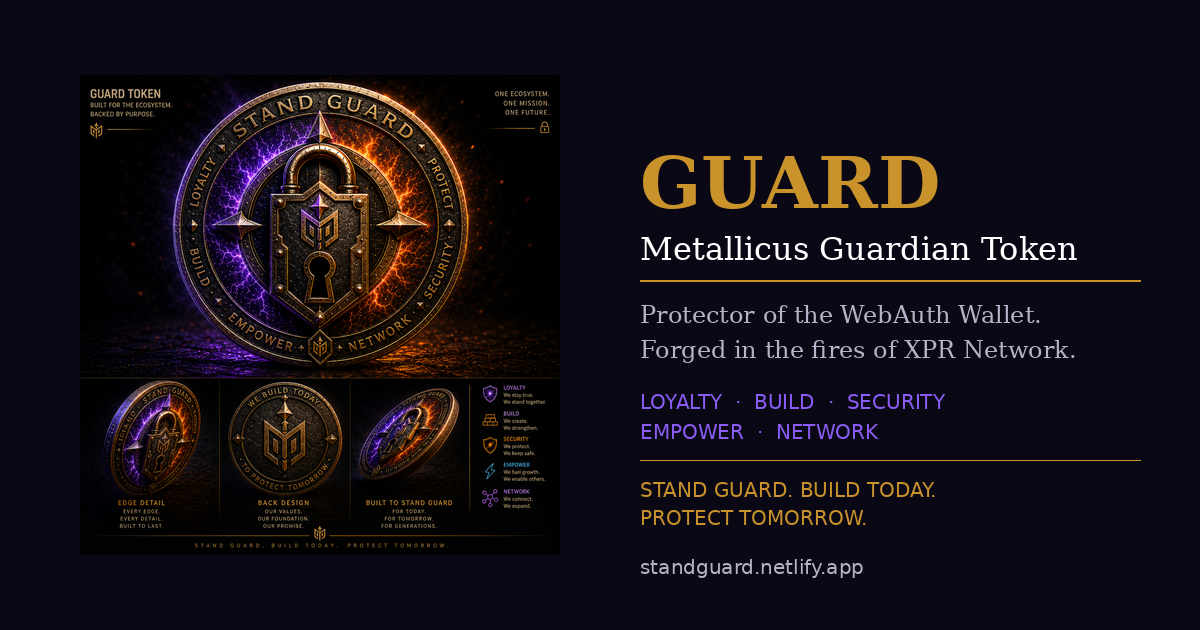
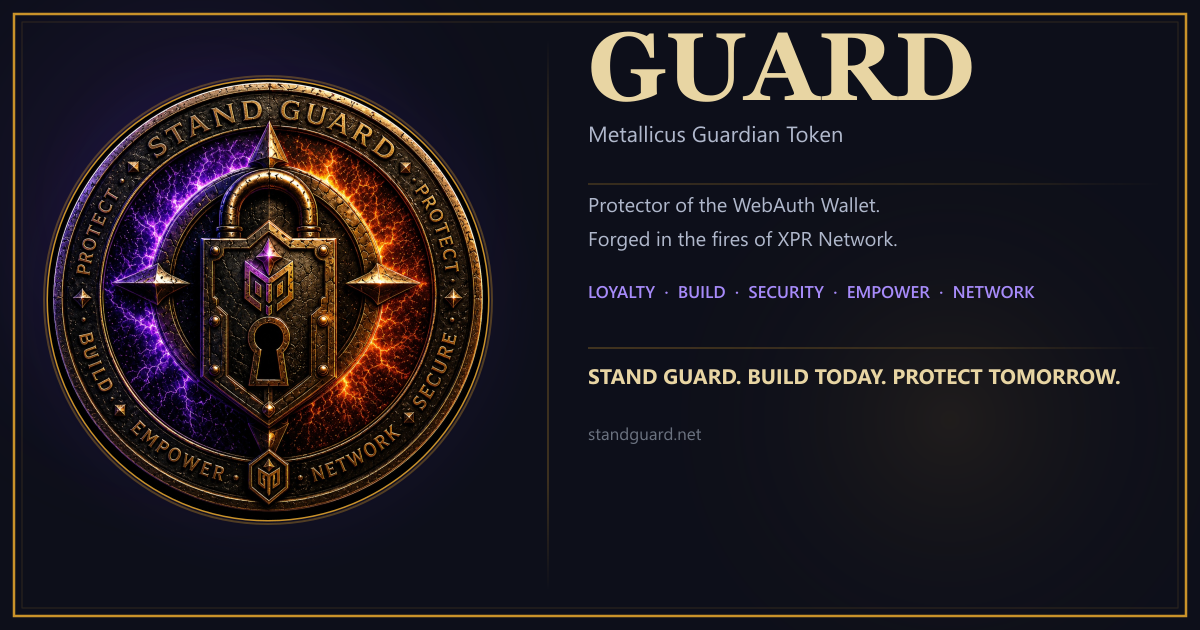
feat: rebuild guard-card-v6.png social share card for standguard.net
1200x630 OG image — dark bg, coin image left with purple glow ring,
GUARD title + taglines + value pillars + CTA + standguard.net right panel.
Includes make-card.js (node-canvas build script) for future edits.

diff --git a/make-card.js b/make-card.js
@@ -1,0 +1,177 @@
+const { createCanvas, loadImage } = require('canvas');
+const fs = require('fs');
+const path = require('path');
+
+const W = 1200, H = 630;
+const canvas = createCanvas(W, H);
+const ctx = canvas.getContext('2d');
+
+// ── Colors (matching site theme) ──
+const BG      = '#0d0f1a';
+const BG2     = '#161828';
+const GOLD    = '#c9922a';
+const GOLD_L  = '#e8d5a3';
+const PURPLE  = '#7c3aed';
+const TEXT2   = '#b0b8cc';
+const TEXT3   = '#6b7280';
+const BORDER  = 'rgba(201,146,42,0.3)';
+
+// ── Background ──
+ctx.fillStyle = BG;
+ctx.fillRect(0, 0, W, H);
+
+// Subtle radial glow top-left (purple)
+const glowL = ctx.createRadialGradient(200, 200, 0, 200, 200, 380);
+glowL.addColorStop(0, 'rgba(124,58,237,0.18)');
+glowL.addColorStop(1, 'rgba(0,0,0,0)');
+ctx.fillStyle = glowL;
+ctx.fillRect(0, 0, W, H);
+
+// Subtle radial glow right (gold)
+const glowR = ctx.createRadialGradient(950, 420, 0, 950, 420, 320);
+glowR.addColorStop(0, 'rgba(201,146,42,0.10)');
+glowR.addColorStop(1, 'rgba(0,0,0,0)');
+ctx.fillStyle = glowR;
+ctx.fillRect(0, 0, W, H);
+
+// ── Gold border frame ──
+ctx.strokeStyle = GOLD;
+ctx.lineWidth = 2.5;
+ctx.strokeRect(14, 14, W - 28, H - 28);
+
+// Inner subtle border
+ctx.strokeStyle = 'rgba(201,146,42,0.18)';
+ctx.lineWidth = 1;
+ctx.strokeRect(22, 22, W - 44, H - 44);
+
+// ── Left panel: coin image ──
+const IMG_X = 48, IMG_Y = 80, IMG_SIZE = 440;
+(async () => {
+  try {
+    const coin = await loadImage(path.join(__dirname, 'g_token.jpg'));
+    // Circular clip
+    ctx.save();
+    ctx.beginPath();
+    const cx = IMG_X + IMG_SIZE / 2;
+    const cy = IMG_Y + IMG_SIZE / 2;
+    const r  = IMG_SIZE / 2;
+    ctx.arc(cx, cy, r, 0, Math.PI * 2);
+    ctx.closePath();
+    // Glow ring
+    ctx.shadowColor = PURPLE;
+    ctx.shadowBlur  = 48;
+    ctx.strokeStyle = GOLD;
+    ctx.lineWidth   = 3;
+    ctx.stroke();
+    ctx.clip();
+    ctx.shadowBlur = 0;
+    ctx.drawImage(coin, IMG_X, IMG_Y, IMG_SIZE, IMG_SIZE);
+    ctx.restore();
+
+    // Second glow ring outside clip
+    ctx.save();
+    ctx.beginPath();
+    ctx.arc(cx, cy, r + 4, 0, Math.PI * 2);
+    ctx.strokeStyle = 'rgba(201,146,42,0.35)';
+    ctx.lineWidth = 2;
+    ctx.stroke();
+    ctx.restore();
+  } catch(e) {
+    // Fallback: gold circle placeholder
+    ctx.beginPath();
+    ctx.arc(IMG_X + IMG_SIZE/2, IMG_Y + IMG_SIZE/2, IMG_SIZE/2, 0, Math.PI*2);
+    ctx.fillStyle = 'rgba(201,146,42,0.15)';
+    ctx.fill();
+    ctx.strokeStyle = GOLD;
+    ctx.lineWidth = 3;
+    ctx.stroke();
+  }
+
+  // ── Vertical divider ──
+  const divX = 548;
+  const grad = ctx.createLinearGradient(divX, 40, divX, H - 40);
+  grad.addColorStop(0,   'rgba(201,146,42,0)');
+  grad.addColorStop(0.2, 'rgba(201,146,42,0.5)');
+  grad.addColorStop(0.8, 'rgba(201,146,42,0.5)');
+  grad.addColorStop(1,   'rgba(201,146,42,0)');
+  ctx.strokeStyle = grad;
+  ctx.lineWidth = 1;
+  ctx.beginPath();
+  ctx.moveTo(divX, 40);
+  ctx.lineTo(divX, H - 40);
+  ctx.stroke();
+
+  // ── Right panel text ──
+  const RX = 588;   // text left edge
+  const RW = W - RX - 40; // usable width
+  let y = 100;
+
+  // 'GUARD' — big gold title
+  ctx.fillStyle = GOLD_L;
+  ctx.font = 'bold 96px Georgia, "Times New Roman", serif';
+  ctx.letterSpacing = '6px';
+  ctx.fillText('GUARD', RX, y);
+  y += 12;
+
+  // 'Metallicus Guardian Token'
+  ctx.fillStyle = TEXT2;
+  ctx.font = '500 22px "Segoe UI", Arial, sans-serif';
+  ctx.letterSpacing = '2px';
+  ctx.fillText('Metallicus Guardian Token', RX, y + 30);
+  y += 72;
+
+  // Horizontal divider
+  drawHRule(ctx, RX, y, RW, GOLD, 0.45);
+  y += 28;
+
+  // Taglines
+  ctx.fillStyle = TEXT2;
+  ctx.font = '400 20px "Segoe UI", Arial, sans-serif';
+  ctx.letterSpacing = '0px';
+  ctx.fillText('Protector of the WebAuth Wallet.', RX, y);
+  y += 34;
+  ctx.fillText('Forged in the fires of XPR Network.', RX, y);
+  y += 52;
+
+  // Value pillars
+  ctx.fillStyle = '#a78bfa'; // softer purple for readability
+  ctx.font = '600 17px "Segoe UI", Arial, sans-serif';
+  ctx.letterSpacing = '1.5px';
+  ctx.fillText('LOYALTY  ·  BUILD  ·  SECURITY  ·  EMPOWER  ·  NETWORK', RX, y);
+  y += 50;
+
+  // Gold divider
+  drawHRule(ctx, RX, y, RW, GOLD, 0.55);
+  y += 36;
+
+  // CTA line
+  ctx.fillStyle = GOLD_L;
+  ctx.font = 'bold 21px "Segoe UI", Arial, sans-serif';
+  ctx.letterSpacing = '1px';
+  ctx.fillText('STAND GUARD. BUILD TODAY. PROTECT TOMORROW.', RX, y);
+  y += 56;
+
+  // URL — bottom
+  ctx.fillStyle = TEXT3;
+  ctx.font = '400 17px "Segoe UI", Arial, sans-serif';
+  ctx.letterSpacing = '0.5px';
+  ctx.fillText('standguard.net', RX, y);
+
+  // ── Save ──
+  const out = path.join(__dirname, 'guard-card-v6.png');
+  fs.writeFileSync(out, canvas.toBuffer('image/png'));
+  console.log('Saved:', out);
+})();
+
+function drawHRule(ctx, x, y, w, color, opacity) {
+  const g = ctx.createLinearGradient(x, y, x + w, y);
+  g.addColorStop(0,    `rgba(201,146,42,${opacity})`);
+  g.addColorStop(0.7,  `rgba(201,146,42,${opacity * 0.6})`);
+  g.addColorStop(1,    'rgba(201,146,42,0)');
+  ctx.strokeStyle = g;
+  ctx.lineWidth = 1;
+  ctx.beginPath();
+  ctx.moveTo(x, y);
+  ctx.lineTo(x + w, y);
+  ctx.stroke();
+}
